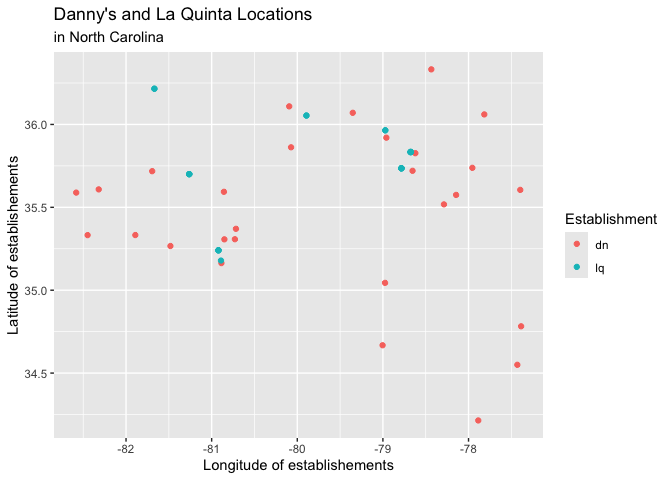
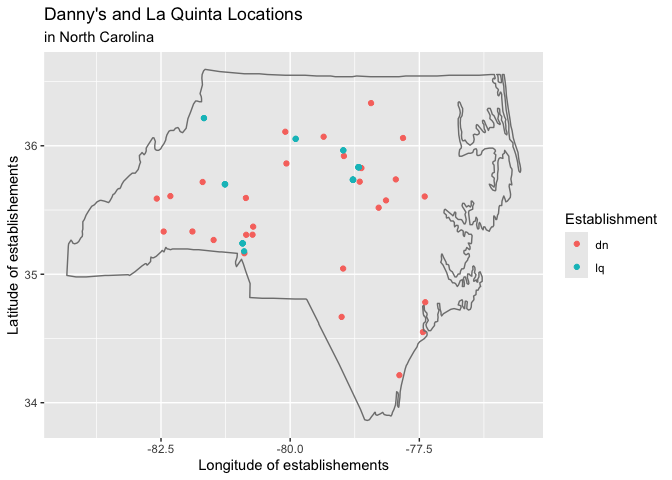
borders added

diff --git a/lab-05.md b/lab-05.md
@@ -8,6 +8,7 @@ Olivia Zhang
 ``` r
 library(tidyverse) 
 library(dsbox) 
+library(maps)
 ```
 
 ``` r
@@ -44,6 +45,7 @@ lq_ak$establishment <- "lq"
 
 dn_lq_ak1 <- 
   full_join(dn_ak, lq_ak, by = join_by(address, city, state, zip, longitude, latitude, establishment))
+#I did this before I see your notes. My way of joining the two data frames allows the same variables for two locations, while your way of joining datasets allows for pairing and later including distance information into the joined dataset.
 ```
 
 ``` r
@@ -58,6 +60,7 @@ dn2_lq2 <- sqrt((dn_lq_ak1$longitude[2] - dn_lq_ak1$longitude[5])^2 + (dn_lq_ak1
 #dn3
 dn3_lq1 <- sqrt((dn_lq_ak1$longitude[3] - dn_lq_ak1$longitude[4])^2 + (dn_lq_ak1$latitude[3] - dn_lq_ak1$latitude[4])^2)
 dn3_lq2 <- sqrt((dn_lq_ak1$longitude[3] - dn_lq_ak1$longitude[5])^2 + (dn_lq_ak1$latitude[3] - dn_lq_ak1$latitude[5])^2)
+#I only noticed your notes after I typed in all these. I didn't want to delete it so here they are. They are not used for later calculations or visualizations.
 ```
 
 There are six pairings.
@@ -138,10 +141,14 @@ dn_lq_ak %>%
   x = "Longitude of establishements", 
   y = "Latitude of establishements", 
   color = "Establishment"
-     )
+     ) 
 ```
 
 ![](lab-05_files/figure-gfm/ak-vis-1.png)<!-- -->
+
+``` r
+# + borders("state", regions = "alaska", colour = "gray50", fill = NA) #there is no region for alaska in the maps database, so I'm commenting it out
+```
 
 As shown in the graph, in Alaska, La Quinta locations are all near
 Denny’s. The distance between the nearest Denny’s and La Quinta are
@@ -221,7 +228,8 @@ dn_lq_nc %>%
   x = "Longitude of establishements", 
   y = "Latitude of establishements", 
   color = "Establishment"
-     )
+     ) +
+  borders("state", regions = "north carolina", colour = "gray50", fill = NA)
 ```
 
 ![](lab-05_files/figure-gfm/nc-1.png)<!-- -->
@@ -303,7 +311,8 @@ dn_lq_tx %>%
   y = "Latitude of establishements", 
   color = "Establishment"
      ) +
-  guides(alpha = FALSE)
+  guides(alpha = FALSE) +
+  borders("state", regions = "texas", colour = "gray50", fill = NA)
 ```
 
     ## Warning: The `<scale>` argument of `guides()` cannot be `FALSE`. Use "none" instead as
@@ -391,7 +400,8 @@ dn_lq_ca %>%
   y = "Latitude of establishements", 
   color = "Establishment"
      ) +
-  guides(alpha = FALSE)
+  guides(alpha = FALSE) +
+  borders("state", regions = "california", colour = "gray50", fill = NA)
 ```
 
 ![](lab-05_files/figure-gfm/ca-1.png)<!-- -->
@@ -399,9 +409,8 @@ dn_lq_ca %>%
 ### Exercise 12
 
 Mitch Hedberg’s joke about La Quinta is the Spanish for next for Denny’s
-is true for most states except for North Carolina, where there are two
-La Quinta’s that is still pretty far from the nearest Denny’s. It is
-worth noting that it is generally true that if you find a La Quinta
-location, there is a Denny’s near it, but this joke doesn’t garantee
-that if you find a Denny’s location, a La Quinta’s location is
-necessarily nearby.
+is true for most state except for North Carolina, where there are two La
+Quinta’s that is still pretty far from the nearest Denny’s. It is worth
+noting that it is generally true that if you find a La Quinta location,
+there is a Denny’s near it, but this joke doesn’t garantee that if you
+find a Denny’s location, a La Quinta’s location is necessarily nearby.
